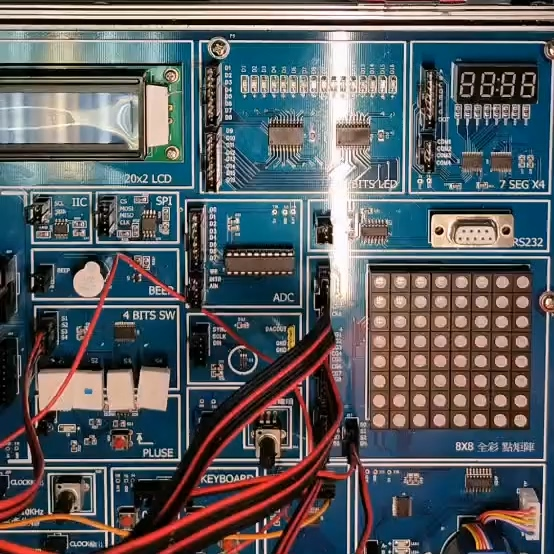
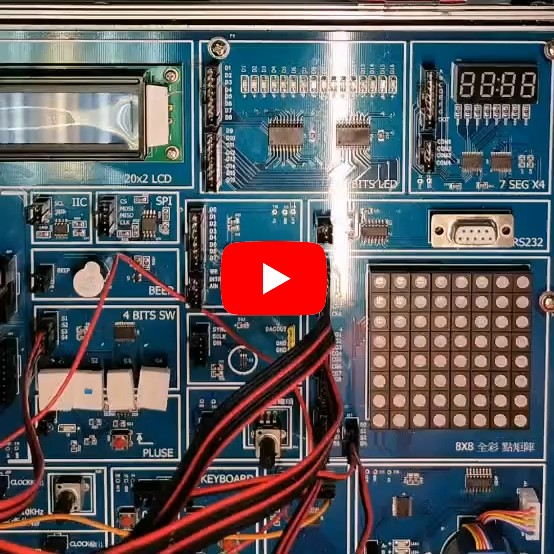
md

Changed region(s): [[0.3682, 0.4296, 0.6137, 0.583]]

diff --git a/README.md b/README.md
@@ -2,6 +2,8 @@
 
 A Tetris game made with Verilog.
 
+![video](https://github.com/micr0dust/verilog-tetris/blob/main/img/thumbnails.jpg?raw=true "video")
+
 ## Basic Features
 
 - Basic operation like left, right, rotate, down
